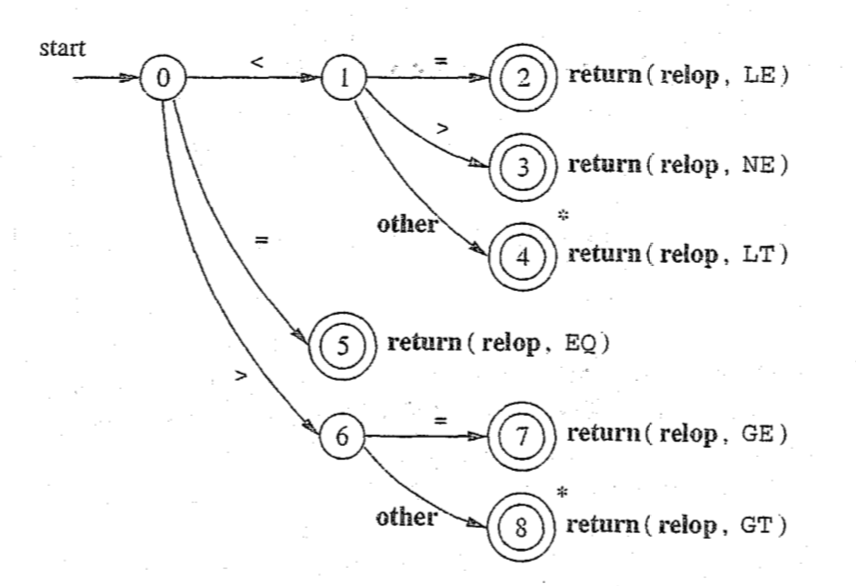
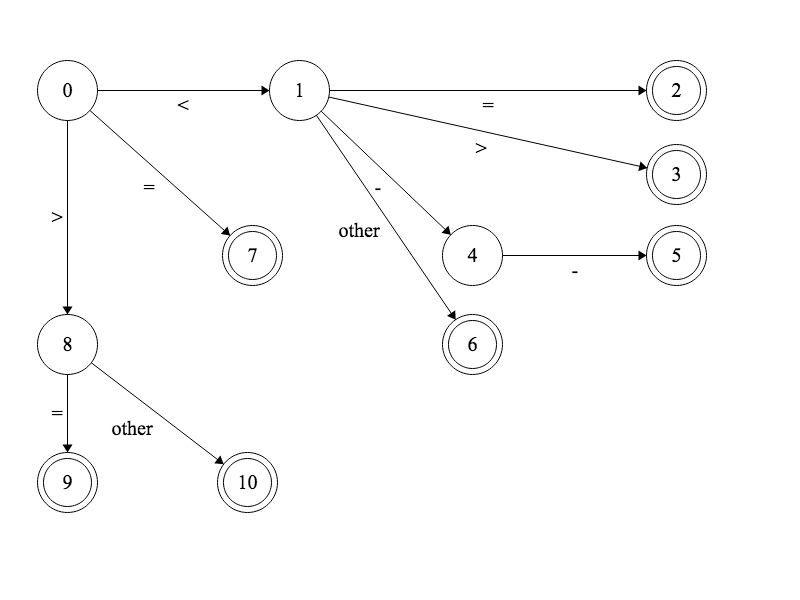
Implemented assignment, blank spaces, separator

diff --git a/src/com/lexer/Lexer.java b/src/com/lexer/Lexer.java
@@ -39,10 +39,11 @@ public class Lexer {
      * @return a recognized Token
      * @throws IOException
      */
-    public Token getToken(InputStream fr) throws IOException {
+    public Token nextToken(InputStream fr) throws IOException {
         Token toReturn = new Token("EOF","eof");
         String str = "";
         String num = "";
+        int blank = 0;
         state=0;
         if(!keep) forward=(char) fr.read();
         keep=false;
@@ -53,17 +54,19 @@ public class Lexer {
             		if(forward == '<') {state=1;
             							forward=(char) fr.read();
             							}
-            		else if(forward == '=') {state=5;}
-            		else if(forward == '>') {state=6;
+            		else if(forward == '=') {state=7;}
+            		else if(forward == '>') {state=8;
             								 forward=(char) fr.read();
             								 }
             		else state=POZZO;
             		break;
             case 1: if(forward == '=') state=2;
             		else if(forward == '>') state=3;
-            		else if(forward != '=' || forward != '>'){state=4;
-            			  				     				  keep=true;
-            			  				     				  }
+            		else if(forward == '-') {state=4;
+            								 forward=(char)fr.read();}
+            		else if(forward != '=' || forward != '>' || forward != '-'){state=6;
+            			  				     				  					keep=true;
+            			  				     				  					}
             		else state=POZZO;
             		break;
             case 2: toReturn.setClasse("RELOP");
@@ -72,39 +75,43 @@ public class Lexer {
             case 3: toReturn.setClasse("RELOP");
     				toReturn.setLessema("NE");
     				return toReturn;
-            case 4: toReturn.setClasse("RELOP");
-    				toReturn.setLessema("LT");
-    				return toReturn;
-            case 5: toReturn.setClasse("RELOP");
-    				toReturn.setLessema("EQ");
-    				return toReturn;
-            case 6: if(forward == '=') {state=7;
-        
-            							}
-            		else if(forward != '='){state=8;
-            		keep=true;
-            			  					}
+            case 4: if(forward=='-') {state=5;
+									  keep=true;}
             		else state=POZZO;
             		break;
+            case 5: toReturn.setClasse("RELOP");
+   		 			 toReturn.setLessema("ASSIGN");
+   		 			 return toReturn;
+            case 6: toReturn.setClasse("RELOP");
+    				toReturn.setLessema("LT");
+    				return toReturn;
             case 7: toReturn.setClasse("RELOP");
+    				toReturn.setLessema("EQ");
+    				return toReturn;
+            case 8: if(forward == '=') state=9;
+            		else if(forward != '='){state=10;
+            								keep=true;}
+            		else state=POZZO;
+            		break;
+            case 9: toReturn.setClasse("RELOP");
     				toReturn.setLessema("GE");
     				return toReturn;
-            case 8: toReturn.setClasse("RELOP");
+            case 10: toReturn.setClasse("RELOP");
     				toReturn.setLessema("GT");
     				return toReturn;
-            case 9:
-            		state=10;
+            case 11:
+            		state=12;
             		str+=forward;
             		forward=(char) fr.read();
             		break;
-            case 10: if(Character.isLetterOrDigit(forward)) {str+=forward;
+            case 12: if(Character.isLetterOrDigit(forward)) {str+=forward;
             												forward=(char) fr.read();
             												 }
-            		 else if(!Character.isLetterOrDigit(forward)){state=11;
+            		 else if(!Character.isLetterOrDigit(forward)){state=13;
             		 											  keep=true;}
             		 else state=POZZO;
             		 break;
-            case 11: 
+            case 13: 
             		if(keyWord.containsValue(str)) { toReturn.setClasse(str.toUpperCase());
             										 toReturn.setLessema(str);
             										 return toReturn;
@@ -136,63 +143,80 @@ public class Lexer {
             			 }
             		 }
             		break;
-            case 12: state=13;
+            case 14: state=15;
 			 		 num+=forward;
 			 		 forward=(char) fr.read();
             	     break;
-            case 13: if(Character.isDigit(forward)) {num+=forward;
+            case 15: if(Character.isDigit(forward)) {num+=forward;
             									     forward=(char) fr.read();}
             		 else if(forward == '.') {num+=forward;
-            		 						  state=14;
+            		 						  state=16;
             		 						  forward=(char) fr.read();}
             		 else if(forward == 'E') {num+=forward;
-            			 					  state=16;
+            			 					  state=18;
             			 					  forward=(char) fr.read();}
-            		 else if(forward != '.' ||  forward != 'E' || !Character.isDigit(forward)){state=20;keep=true; }
+            		 else if(forward != '.' ||  forward != 'E' || !Character.isDigit(forward)){state=22;keep=true; }
             		 else state=POZZO;
             		 break;
-            case 14: if(Character.isDigit(forward)) {num+=forward;
+            case 16: if(Character.isDigit(forward)) {num+=forward;
             										 forward=(char) fr.read();
-            										 state=15;}
+            										 state=17;}
             		 else state=POZZO;
             		 break;
-            case 15: if(Character.isDigit(forward)) {num+=forward;
+            case 17: if(Character.isDigit(forward)) {num+=forward;
             										 forward=(char) fr.read();}
             		 else if(forward=='E') {num+=forward;
             		 						forward=(char)fr.read();
-            		 						state=16;}
-            		 else if(forward!='E'||!Character.isDigit(forward)) {state=21;
+            		 						state=18;}
+            		 else if(forward!='E'||!Character.isDigit(forward)) {state=23;
             		 									   				 keep=true;}
             		 else state=POZZO;
             		 break;
-            case 16: if(forward=='+'||forward=='-') {state=17;
+            case 18: if(forward=='+'||forward=='-') {state=19;
             										num+=forward;
             										forward=(char) fr.read();}
-            		 else if(forward!='+'||forward!='-') {state=18;
+            		 else if(forward!='+'||forward!='-') {state=20;
             		 									  num+=forward;
             		 									  forward=(char) fr.read();}
             		 else state=POZZO;
                      break;
-            case 17: if(Character.isDigit(forward)) {state=18;
+            case 19: if(Character.isDigit(forward)) {state=20;
             										 num+=forward;
 													 forward=(char) fr.read();}
             		 else state=POZZO;
             		 break;
-            case 18: if(Character.isDigit(forward)) {num+=forward;
+            case 20: if(Character.isDigit(forward)) {num+=forward;
 													forward=(char) fr.read();}
-            		 else if(!Character.isDigit(forward)){state=19;
+            		 else if(!Character.isDigit(forward)){state=21;
             			 								  keep=true;}
             		 else state=POZZO;
             		 break;
-            case 19: toReturn.setClasse("ECONST");
+            case 21: toReturn.setClasse("ECONST");
             		 toReturn.setLessema(num);
             		 return toReturn;	
-            case 20: toReturn.setClasse("NCONST");
+            case 22: toReturn.setClasse("NCONST");
             		 toReturn.setLessema(num);
             		 return toReturn;
-            case 21: toReturn.setClasse("RCONST");
+            case 23: toReturn.setClasse("RCONST");
             		 toReturn.setLessema(num);
             		 return toReturn;
+            case 24: toReturn.setClasse("SEPARATOR");
+            		 toReturn.setLessema(""+forward);
+            		 return toReturn;
+            case 25: if(forward == ' '||forward == '\n'|| forward == '\t') {//unlock this comment to return Token with blank spaces
+            																//blank=(int)forward;
+            																forward=(char)fr.read();
+            																//state=26;
+            																//keep=true;
+            																}
+            		 else if (forward != ' '||forward != '\n'|| forward != '\t') {if(!route(forward)) {forward=(char)fr.read();
+																								          keep=true;																					  
+																								          }
+																					} else state=POZZO;
+            		 break;
+            /*case 26: toReturn.setClasse("BLANK");
+   		 			 toReturn.setLessema(""+blank);
+   		 			 return toReturn;*/
             case POZZO: if(!route(forward)) {int eof=fr.read();
             		   					    if(eof==-1)break loop;
             			                    forward=(char)eof;
@@ -213,10 +237,17 @@ public class Lexer {
     	boolean toReturn=false;
     	if(forward == '='||forward == '>'|| forward == '<') {state=0;
     														 toReturn=true;}
-		else if(Character.isLetter(forward)) {state=9;
+		else if(Character.isLetter(forward)) {state=11;
 											  toReturn=true;}
-		else if(Character.isDigit(forward)) {state=12;
-    										   toReturn=true;}
+		else if(Character.isDigit(forward)) {state=14;
+    										 toReturn=true;}
+		else if(forward == '('||forward == ')'|| 
+				forward == '['||forward == ']'||
+				forward == '{'||forward == '}'||
+				forward == ','||forward == ';' ) {state=24;
+												  toReturn=true;}
+		else if(forward == ' '||forward == '\n'|| forward == '\t') {state=25;
+																	toReturn=true;}
 		else toReturn=false;
 			 
     	return toReturn;

diff --git a/src/com/main/Main.java b/src/com/main/Main.java
@@ -17,12 +17,12 @@ public class Main {
         Lexer lexer = new Lexer();
         InputStream fr = new BufferedInputStream(new FileInputStream("src/com/main/lang.txt"));
         int i=0;
-        token=lexer.getToken(fr);
+        token=lexer.nextToken(fr);
         String classe=token.getClasse();
         while(!classe.equals("EOF")) {
             //
             System.out.println(i+":\t"+token);
-            token=lexer.getToken(fr);
+            token=lexer.nextToken(fr);
             classe=token.getClasse();
             i++;
             }

diff --git a/README.md b/README.md
@@ -1,7 +1,7 @@
 # Lexer
 
-This is a Java implementation of a Lexer present in the book **Principles of Compiler Design** written by **Alfred Aho and Jeffrey D. Ullman**.  
-What I will go to implement are the transaction diagram to recognize the relationship operations, identificators and  numbers.
+This is a Java implementation of a Lexer explained in the book **Principles of Compiler Design** written by **Alfred Aho and Jeffrey D. Ullman**.  
+What I will go to implement are the transaction diagram to recognize the relationship operations, identificators, numbers, separator and blank spaces.
 
 ### Relop diagram
 ---
@@ -15,14 +15,34 @@ What I will go to implement are the transaction diagram to recognize the relatio
  <img src="https://github.com/CiccioTecchio/Lexer/blob/master/img/id.png"/>
  </div>  
  
- ### Numbers diagram
+ ### Number diagram
  ---
   <div style="text-aling:center">
  <img src="https://github.com/CiccioTecchio/Lexer/blob/master/img/number.png"/>
  </div>  
 
+  ### Separator diagram
+ ---
+ The separator are the symbol:
+ -  {} [\] ()
+ - , ; 
+  <div style="text-aling:center">
+ <img src="https://github.com/CiccioTecchio/Lexer/blob/master/img/separator.png"/>
+ </div>  
+
+ ### Blank space diagram
+ ---
+The blanck spaces are recognized but not returned.  
+They are:
+- empty space character
+- new line character
+- tabulation character
+  <div style="text-aling:center">
+ <img src="https://github.com/CiccioTecchio/Lexer/blob/master/img/blank.png"/>
+ </div>  
+
 ## How to run
 
 You can import this project in Eclipse and run it normally.
-- lang.txt: contains your language;
+- lang.txt: contains your language
 - keywords.txt: contains your keywords
